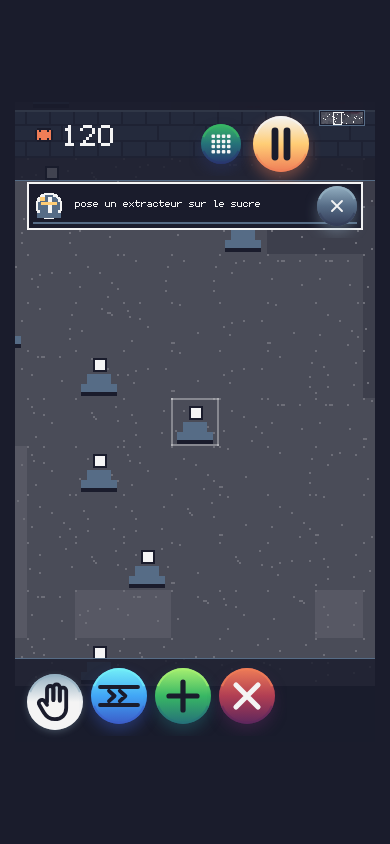
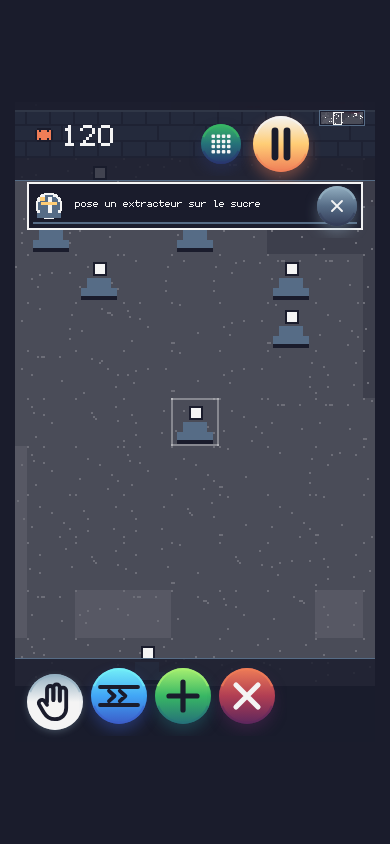
Ce qu'un tapis vise, il l'alimente — et son bout ne ment plus
Deux pannes, sous un mur, et la même image : des caramels qui s'entassent
dans la branche de gauche pendant que d'autres sautent en travers.

**La branche muette.** La règle « ce qu'un tapis vise, il l'alimente » était
posée tapis par tapis, à chaque endroit où un bout change — et il en manquait
la moitié. Un tapis qu'on vient de tracer est parfois coupé en deux par un
amont qui butait déjà en son milieu : c'est alors l'amont qu'on raccordait, et
la portion qui touche la cible restait muette. Un tapis qui perd sa
destination ressort ailleurs ; une machine retirée laisse ses entrées viser
une case vide. Chacun de ces cas laissait un tapis branché pour l'œil et mort
pour la simulation.

La règle s'applique donc une fois, à la fin du geste, sur toute la scène. Les
gardes ne changent pas : on ne détourne pas un tapis qui travaille, on ne
détruit jamais pour faire de la place, et jamais un tapis ne se nourrit de
lui-même.

**Le bout qui ment.** Le tour de rôle saute maintenant les branches qui ne
peuvent rien prendre, et la géométrie suit le tour : l'item ne glisse plus une
demi-case vers une file pleine pour sauter dans la voisine au moment d'être
livré. Le tour se fige dès qu'un item est entré dans la dernière demi-cellule —
ce qui est engagé ne se retourne pas sous les yeux du joueur.

**Ce qui l'a trouvé.** Un invariant de plus dans `outils/invariants.mjs` : un
tapis dont la sortie tombe sur une machine qui a de la place, ou sur un autre
[…]

diff --git a/src/sim/scene.js b/src/sim/scene.js
@@ -85,7 +85,8 @@ export function couperConvoyeur(scene, convoyeur, cx, cy) {
       if (suite.source === convoyeur) suite.source = suite.sources[0] || null;
       // Elle n'est plus alimentée par personne : sa géométrie change avec ses
       // sources, et sans ça elle gardait l'entrée d'un tapis qui ne la touche
-      // plus — ses items entraient par un bord qui n'existait plus.
+      // plus — ses items entraient par un bord qui n'existait plus. Elle
+      // ressort donc ailleurs, et alimente ce qu'elle vise désormais.
       majGeometrie(suite);
     }
   }
@@ -96,7 +97,7 @@ export function couperConvoyeur(scene, convoyeur, cx, cy) {
   detacherCible(convoyeur);
   reconstruire(convoyeur, convoyeur.chemin.slice(0, -1), null);
   elaguerSorties(convoyeur);
-  raccorderLeBout(scene, convoyeur);
+  reconcilier(scene);
 }
 
 // Ce tapis vise-t-il cette cellule ? C'est la même question des deux côtés :
@@ -150,6 +151,46 @@ export function etendreMachine(scene, machine, cellules) {
   raccorderCeQuiVise(scene, machine, machine.cellules);
 }
 
+// **Ce qu'un tapis vise, il l'alimente, quel que soit l'ordre des gestes.**
+//
+// La règle est décidée depuis longtemps ; elle était appliquée geste par
+// geste, à chaque endroit où un tapis change de bout — et il en manquait la
+// moitié. Un tapis qui perd sa destination ressort ailleurs ; un tapis qu'on
+// vient de poser est parfois coupé en deux par un amont qui butait déjà en
+// son milieu ; une machine retirée laisse ses entrées viser une case vide.
+// Chacun de ces cas laissait derrière lui un tapis **branché pour l'œil et
+// mort pour la simulation** : le rendu déduit la jonction de la géométrie, si
+// bien qu'on voyait une chaîne là où une file s'accumulait en silence. Le
+// juge des invariants en trouve un tous les deux cents gestes.
+//
+// La règle s'applique donc une fois, à la fin du geste, sur toute la scène :
+// c'est le seul endroit où elle est vraie sans exception. Les gardes ne
+// changent pas — on ne détourne pas un tapis qui travaille, on ne détruit
+// jamais pour faire de la place, et jamais un tapis ne se nourrit de
+// lui-même. Un raccord coupe un hôte en deux et fait donc naître un tapis de
+// plus : on repasse tant que quelque chose a bougé, sans jamais boucler.
+let reconciliant = false;
+
+function reconcilier(scene) {
+  // Un raccord passe lui-même par ici : on ne repart pas en arrière au milieu
+  // d'une passe, la boucle des passes s'en charge.
+  if (reconciliant) return;
+  reconciliant = true;
+  try { passesDeReconciliation(scene); } finally { reconciliant = false; }
+}
+
+function passesDeReconciliation(scene) {
+  for (let passe = 0; passe < 4; passe++) {
+    let bouge = false;
+    for (const convoyeur of [...scene.convoyeurs]) {
+      if (!scene.convoyeurs.includes(convoyeur)) continue;
+      if (destinations(convoyeur).length > 0) continue;
+      if (raccorderLeBout(scene, convoyeur)) bouge = true;
+    }
+    if (!bouge) return;
+  }
+}
+
 // Un tapis raccourci se raccorde à la machine qu'il vise désormais.
 //
 // Sans ça il en avait seulement l'air : le rendu déduit la jonction de la
@@ -165,15 +206,17 @@ export function etendreMachine(scene, machine, cellules) {
 // buter dessus.
 function raccorderLeBout(scene, convoyeur) {
   const bout = convoyeur.celluleSortie;
-  if (!bout) return;
+  if (!bout) return false;
   const machine = machineEn(scene, bout.cx, bout.cy);
   if (peutPrendre(machine, convoyeur)) {
     machine.entrees.push(convoyeur);
     reconstruire(convoyeur, convoyeur.chemin, machine);
-    return;
+    return true;
   }
   const hote = convoyeurEn(scene, bout.cx, bout.cy);
-  if (peutSeDeverserDans(convoyeur, hote)) raccorderA(scene, convoyeur, hote, bout);
+  if (!peutSeDeverserDans(convoyeur, hote)) return false;
+  raccorderA(scene, convoyeur, hote, bout);
+  return destinations(convoyeur).length > 0;
 }
 
 // Ce tapis peut-il se déverser tout seul dans celui-là ?
@@ -245,6 +288,7 @@ export function prolongerConvoyeur(scene, convoyeur, cellules, cible) {
   }
   reconstruire(convoyeur, convoyeur.chemin.concat(cellules), cible);
   elaguerSorties(convoyeur);
+  reconcilier(scene);
 }
 
 function estMachine(x) { return Boolean(x && x.def); }
@@ -294,6 +338,7 @@ export function retirerConvoyeur(scene, convoyeur) {
     const i = convoyeur.cible.entrees.indexOf(convoyeur);
     if (i >= 0) convoyeur.cible.entrees.splice(i, 1);
   }
+  reconcilier(scene);
 }
 
 // Retirer une machine construite : ses tapis restent posés, ils perdent
@@ -303,7 +348,12 @@ export function retirerMachine(scene, machine) {
   const i = scene.machines.indexOf(machine);
   if (i < 0) return;
   scene.machines.splice(i, 1);
-  poser(scene.grille, machine.cx, machine.cy, null);
+  // Toutes ses cases, et seulement les siennes : une machine large en occupe
+  // plusieurs, et la case qu'elle rend a pu changer de mains entre-temps —
+  // la réception d'un mur laisse la sienne à un connecteur.
+  for (const c of (machine.cellules || [machine])) {
+    if (machineEn(scene, c.cx, c.cy) === machine) poser(scene.grille, c.cx, c.cy, null);
+  }
   for (const amont of [...machine.entrees]) {
     amont.cible = null;
     majGeometrie(amont);
@@ -316,6 +366,7 @@ export function retirerMachine(scene, machine) {
     majGeometrie(aval);
   }
   machine.sorties.length = 0;
+  reconcilier(scene);
 }
 
 // Une sortie, un convoyeur, une entrée : chaque machine n'a qu'une sortie, et
@@ -363,7 +414,12 @@ export function poserConvoyeur(scene, chemin, source, cible) {
   // Le nouveau venu, lui aussi, vise peut-être quelque chose : un doigt qui
   // s'arrête une case avant l'autre tapis dessine exactement la même image
   // qu'un doigt qui va jusqu'à lui.
-  raccorderLeBout(scene, convoyeur);
+  //
+  // On demande à la grille à qui appartient la dernière case du tracé : le
+  // tapis qu'on vient de poser a pu être coupé en deux au passage, par un
+  // amont qui butait déjà en son milieu, et c'est la portion de la fin qui
+  // vise ce qu'il y a devant.
+  reconcilier(scene);
   return convoyeur;
 }
 
@@ -460,7 +516,27 @@ export function raccorderConvoyeur(scene, chemin, source, hote, cellule) {
 // que pour une machine posée le long d'un tapis, et elle a la même vertu : le
 // nouveau venu déverse dans une cellule qu'il touche, si bien que ses items
 // n'ont aucune case à sauter au passage de la jonction.
+// La portion d'un tapis qui touche cette cellule. Poser un tapis le coupe
+// parfois en deux — un autre venait déjà buter en plein milieu, et le raccord
+// sépare —, si bien que ce qu'on croyait poser n'est plus que l'amont. C'est
+// sa dernière portion qui touche ce qu'il vise, et c'est elle qu'il faut
+// brancher : sans ça le bout du tracé restait muet, plein et branché pour
+// l'œil seulement.
+function portionQuiTouche(convoyeur, cellule) {
+  const vus = new Set();
+  const file = [convoyeur];
+  while (file.length) {
+    const c = file.pop();
+    if (!c || vus.has(c)) continue;
+    vus.add(c);
+    if (adjacentes(c.chemin[c.chemin.length - 1], cellule)) return c;
+    for (const s of c.sorties) file.push(s);
+  }
+  return null;
+}
+
 export function raccorderA(scene, nouveau, hote, cellule) {
+  nouveau = portionQuiTouche(nouveau, cellule) || nouveau;
   if (!nouveau || nouveau === hote) return;
   // Ni l'un ni l'autre ne doit avoir disparu entre-temps. Poser un tapis en
   // détruit parfois un autre — une machine n'a qu'une sortie, et retracer
@@ -480,6 +556,9 @@ export function raccorderA(scene, nouveau, hote, cellule) {
   suite.sources.push(nouveau);
   majGeometrie(nouveau);
   majGeometrie(suite);
+  // La coupure vient de faire naître un tapis : c'est un geste comme un autre,
+  // et ce qu'il vise, il l'alimente.
+  reconcilier(scene);
 }
 
 // Une machine posée devant un tapis s'y raccorde toute seule. Le tapis est
@@ -549,6 +628,17 @@ const BRANCHES_MAX = 3;
 // sont une seule liste de destinations, prises à tour de rôle : un tapis qui
 // nourrit une machine peut donc aussi se diviser, sans que la branche reste
 // affamée.
+// À partir de cet indice, la première destination qui a de la place. Un tapis
+// plein n'en a pas ; une machine n'est jamais sautée — ce qu'elle accepte
+// dépend de sa recette, et un tapis ne la lit pas.
+function disponible(dests, depart) {
+  for (let k = 0; k < dests.length; k++) {
+    const i = (depart + k) % dests.length;
+    if (estMachine(dests[i]) || peutAccepter(dests[i])) return i;
+  }
+  return depart;
+}
+
 function livrerDepuis(convoyeur, type) {
   const dests = destinations(convoyeur);
   const n = dests.length;
@@ -558,7 +648,12 @@ function livrerDepuis(convoyeur, type) {
       ? deposer(suivante, type)
       : peutAccepter(suivante) && pousser(suivante, type, convoyeur);
     if (!pris) continue;
-    convoyeur.tour = (convoyeur.tour + k + 1) % n;
+    // Le tour passe à la suivante — en sautant celles qui ne peuvent rien
+    // prendre. Une branche pleine garde sa place dans la ronde, mais le bout
+    // ne la vise pas : sans ce saut, l'item glissait une demi-case vers un
+    // tapis bouché, puis sautait en travers dans la branche voisine au moment
+    // d'être livré. Trois branches vers un mur, et c'était un item sur deux.
+    convoyeur.tour = disponible(dests, (convoyeur.tour + k + 1) % n);
     // Le bout vise maintenant la destination du prochain item : celui-ci part
     // dans la bonne direction dès le premier pixel.
     majGeometrie(convoyeur);
@@ -567,8 +662,28 @@ function livrerDepuis(convoyeur, type) {
   return false;
 }
 
+// Le bout ne regarde pas une branche bouchée. Tant qu'aucun item n'est entré
+// dans sa dernière demi-cellule, il se tourne vers la première destination qui
+// a de la place ; passé ce point il ne bouge plus, parce qu'un item déjà
+// engagé ne doit pas changer de direction sous les yeux du joueur.
+//
+// C'est la moitié visible du saut de tour de `livrerDepuis` : sans elle, le
+// premier item d'une file glisse vers une branche pleine avant de partir dans
+// la voisine.
+function viserCeQuiPeutPrendre(convoyeur) {
+  const dests = destinations(convoyeur);
+  if (dests.length < 2) return;
+  if (convoyeur.items.length > 0 && convoyeur.items[0].ecart < CELLULE / 2) return;
+  const tour = convoyeur.tour % dests.length;
+  const vers = disponible(dests, tour);
+  if (vers === tour) return;
+  convoyeur.tour = vers;
+  majGeometrie(convoyeur);
+}
+
 export function majScene(scene, dt) {
   for (const convoyeur of scene.convoyeurs) {
+    viserCeQuiPeutPrendre(convoyeur);
     avancer(convoyeur, dt, (type) => livrerDepuis(convoyeur, type));
   }
   for (const machine of scene.machines) majMachine(machine, dt);

diff --git a/src/sim/mur.js b/src/sim/mur.js
@@ -211,9 +211,14 @@ function ouvrirMur(monde) {
   // place : on retient donc qui la nourrissait, avant qu'elle ne parte.
   const nourrissaient = [...recepteur.entrees];
   for (const c of cellules) poser(monde.scene.grille, c.cx, c.cy, null);
-  retirerMachine(monde.scene, recepteur);
+  // Les connecteurs d'abord, et les tapis branchés dessus tant que la
+  // réception les tient encore : une machine retirée rend ses tapis libres,
+  // et un tapis libre se raccorde à ce qu'il vise — c'est-à-dire, pour une
+  // branche qui arrive de côté, au tapis d'à côté. Branchés avant, ils ont
+  // déjà où aller et rien ne les détourne.
   poserConnecteurs(monde, cellules);
   brancherCeQuiMontait(monde, cellules[0].cy, nourrissaient);
+  retirerMachine(monde.scene, recepteur);
 }
 
 // Les tapis qui nourrissaient la réception se déversent maintenant dans le
@@ -228,7 +233,9 @@ function ouvrirMur(monde) {
 function brancherCeQuiMontait(monde, cy, tapis) {
   const connecteurs = connecteursDuMur(monde.scene, cy);
   for (const t of tapis) {
-    if (t.cible || t.sorties.length > 0) continue;
+    // Sa cible est la réception, qui s'en va : c'est une sortie de plus qu'on
+    // lui donne, pas un détournement.
+    if (t.sorties.length > 0) continue;
     const bout = t.chemin[t.chemin.length - 1];
     const conn = connecteurs.find((c) => adjacentes(c.chemin[0], bout));
     if (conn) raccorderA(monde.scene, t, conn, conn.chemin[0]);

diff --git a/src/sim/belt.js b/src/sim/belt.js
@@ -199,6 +199,9 @@ export function majGeometrie(convoyeur) {
   // Sortie : quand le bout distribue entre plusieurs destinations, il vise
   // celle à qui le prochain item revient — pas la première de la liste. Sinon
   // l'item file dans une direction puis saute dans une autre en arrivant.
+  //
+  // Le tour lui-même saute les branches bouchées (voir `livrerDepuis`) : la
+  // géométrie n'a donc rien à savoir de ce qui est plein, elle suit le tour.
   const dests = destinations(convoyeur);
   const visees = dests.map((d) => celluleVisee(d, derniere)).filter(Boolean);
   const tour = dests.length > 0 ? convoyeur.tour % dests.length : 0;

diff --git a/CLAUDE.md b/CLAUDE.md
@@ -25,6 +25,14 @@ Ne pas rediscuter ces points sans me le demander explicitement.
   la barre de progression du jeu entier (voir la section des étages).
 - **Grille avec convoyeurs.** Les objets transportés sont discrets et visibles :
   ils défilent un par un et s'accumulent quand l'aval est saturé.
+  **Le bout d'un tapis montre où part le prochain item**, et il ne montre
+  jamais une branche pleine : le tour de rôle saute celles qui ne peuvent rien
+  prendre, et la géométrie suit le tour. Sans ce saut, l'item glissait une
+  demi-case vers une branche bouchée puis sautait en travers dans la voisine au
+  moment d'être livré — sous un mur, où trois branches montent vers trois
+  connecteurs, c'était un item sur deux. Le tour ne change plus dès qu'un item
+  est entré dans la dernière demi-cellule : ce qui est engagé ne se retourne
+  pas sous les yeux du joueur.
 - **Tracé au doigt.** Un glissé d'une machine à l'autre crée le chemin entier.
   Le joueur ne pose jamais une cellule à la fois.
 - **Séparation et fusion, jamais au milieu d'une file.** Un convoyeur peut se
@@ -110,6 +118,15 @@ Ne pas rediscuter ces points sans me le demander explicitement.
   de jonction — la coupure sépare, elle n'insère pas. Deux gardes, parce que la
   règle agit sans qu'on le lui demande : un tapis qui a déjà où aller n'est
   jamais détourné, et jamais un tapis ne se nourrit de lui-même.
+  **La règle s'applique une fois, à la fin du geste, sur toute la scène.**
+  Elle était posée tapis par tapis, à chaque endroit où un bout change — et il
+  en manquait la moitié : un tapis qui perd sa destination ressort ailleurs,
+  un tapis qu'on vient de tracer est parfois coupé en deux par un amont qui
+  butait déjà en son milieu, une machine retirée laisse ses entrées viser une
+  case vide. Chacun de ces cas laissait un tapis **branché pour l'œil et mort
+  pour la simulation** : la panne la plus difficile à voir, parce qu'elle ne se
+  voit pas. Le juge des invariants la nomme maintenant, et le martelage en
+  trouvait une tous les deux cents gestes.
 - **Le héros n'existe plus.** On pose un extracteur sur un gisement et on le
   relie : c'est tout ce qu'il y a à y faire.
 - **Tout bâtiment se met en pause**, depuis son panneau d'appui long. Il cesse
@@ -928,6 +945,12 @@ promettent — pied du monde intact, cases du premier contact libres, chaque
 gisement dans son étage, aucun sur une rangée de mur —, `outils/mur.mjs` qui
 joue les deux murs jusqu'à ce qu'ils tombent et mesure ce qu'ils coûtent, et
 `outils/sauvegarde.mjs`, qui écrit des parties et les relit.
+
+Le juge des invariants (`outils/invariants.mjs`) tient aussi la règle des
+visées : **un tapis dont la sortie tombe sur une machine qui a de la place, ou
+sur un autre tapis, et qui pourtant ne va nulle part, est un échec.** C'est
+« branché pour l'œil, mort pour la simulation », et c'est la seule panne qu'on
+ne voit pas en jouant.
 
 Ce dernier exige trois choses d'une partie relue : qu'elle soit **saine** — les
 mêmes invariants que l'originale, relus par le même juge (`outils/invariants.mjs`,
